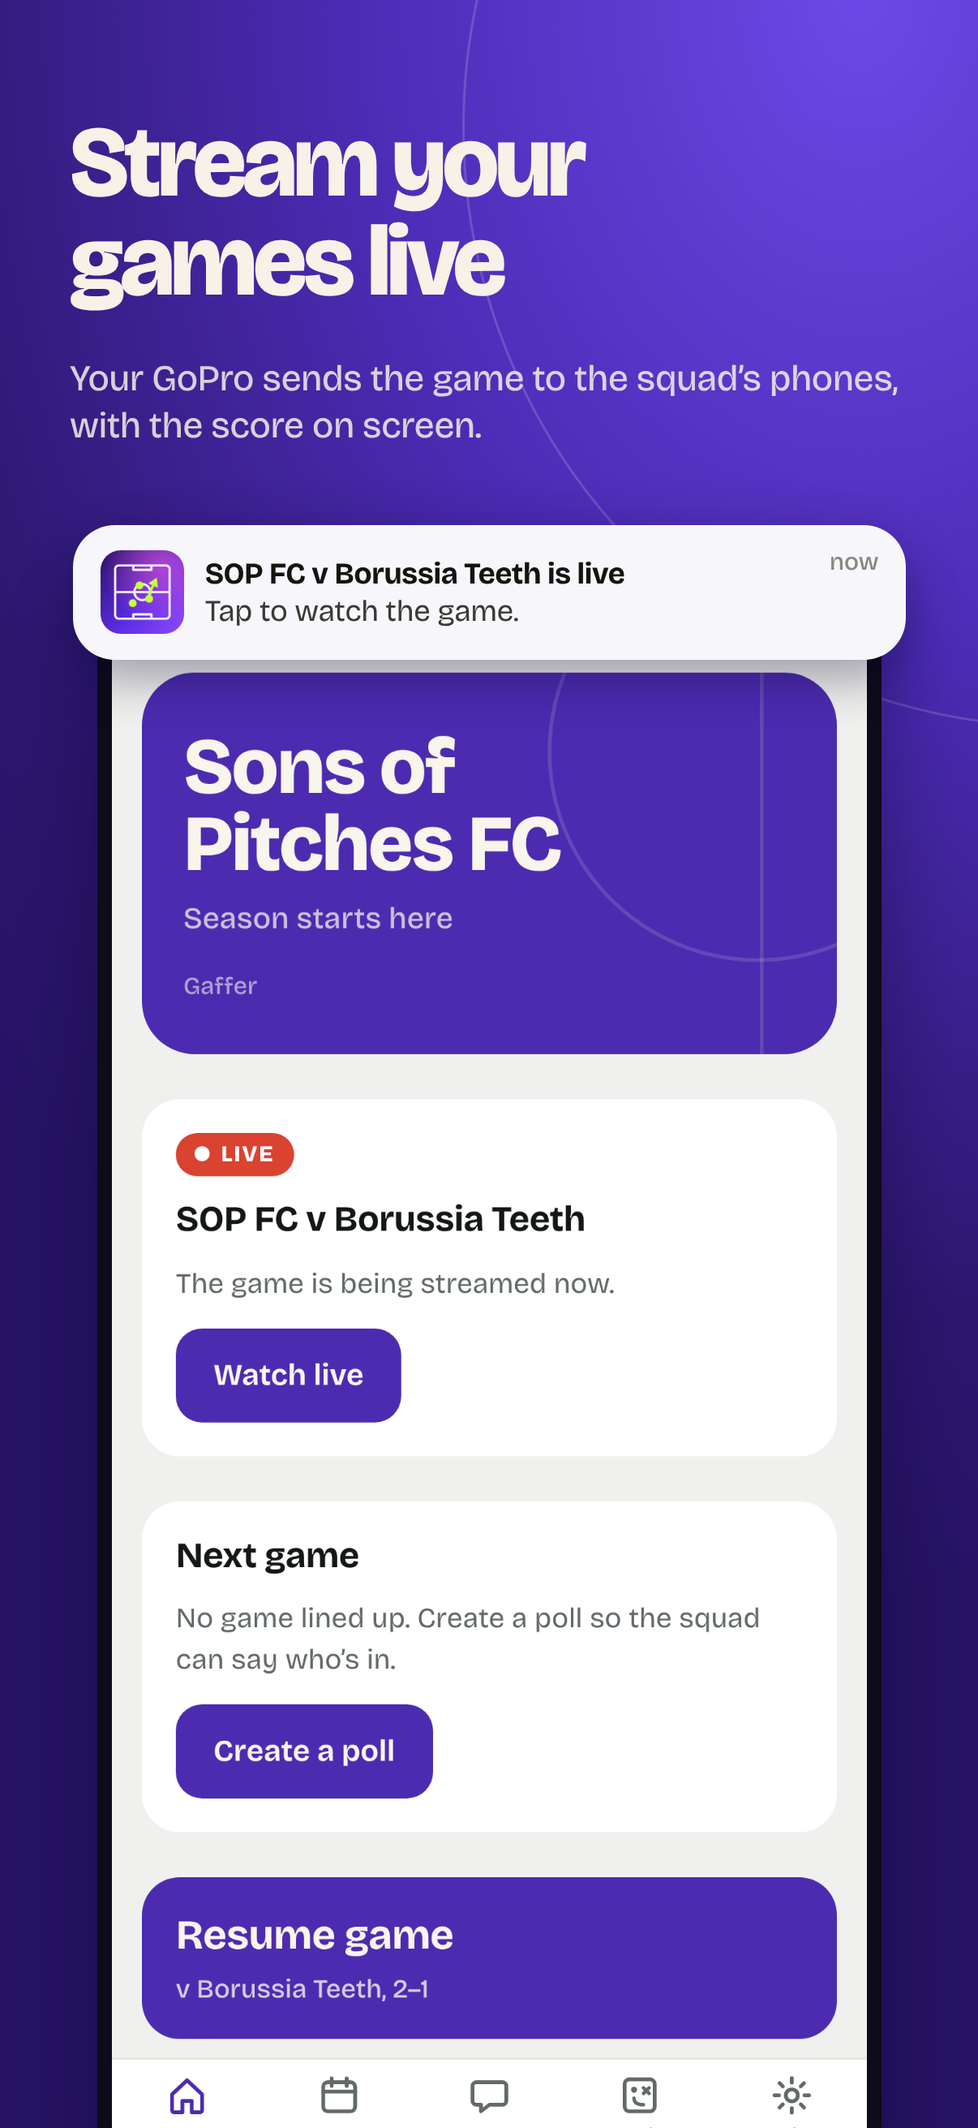
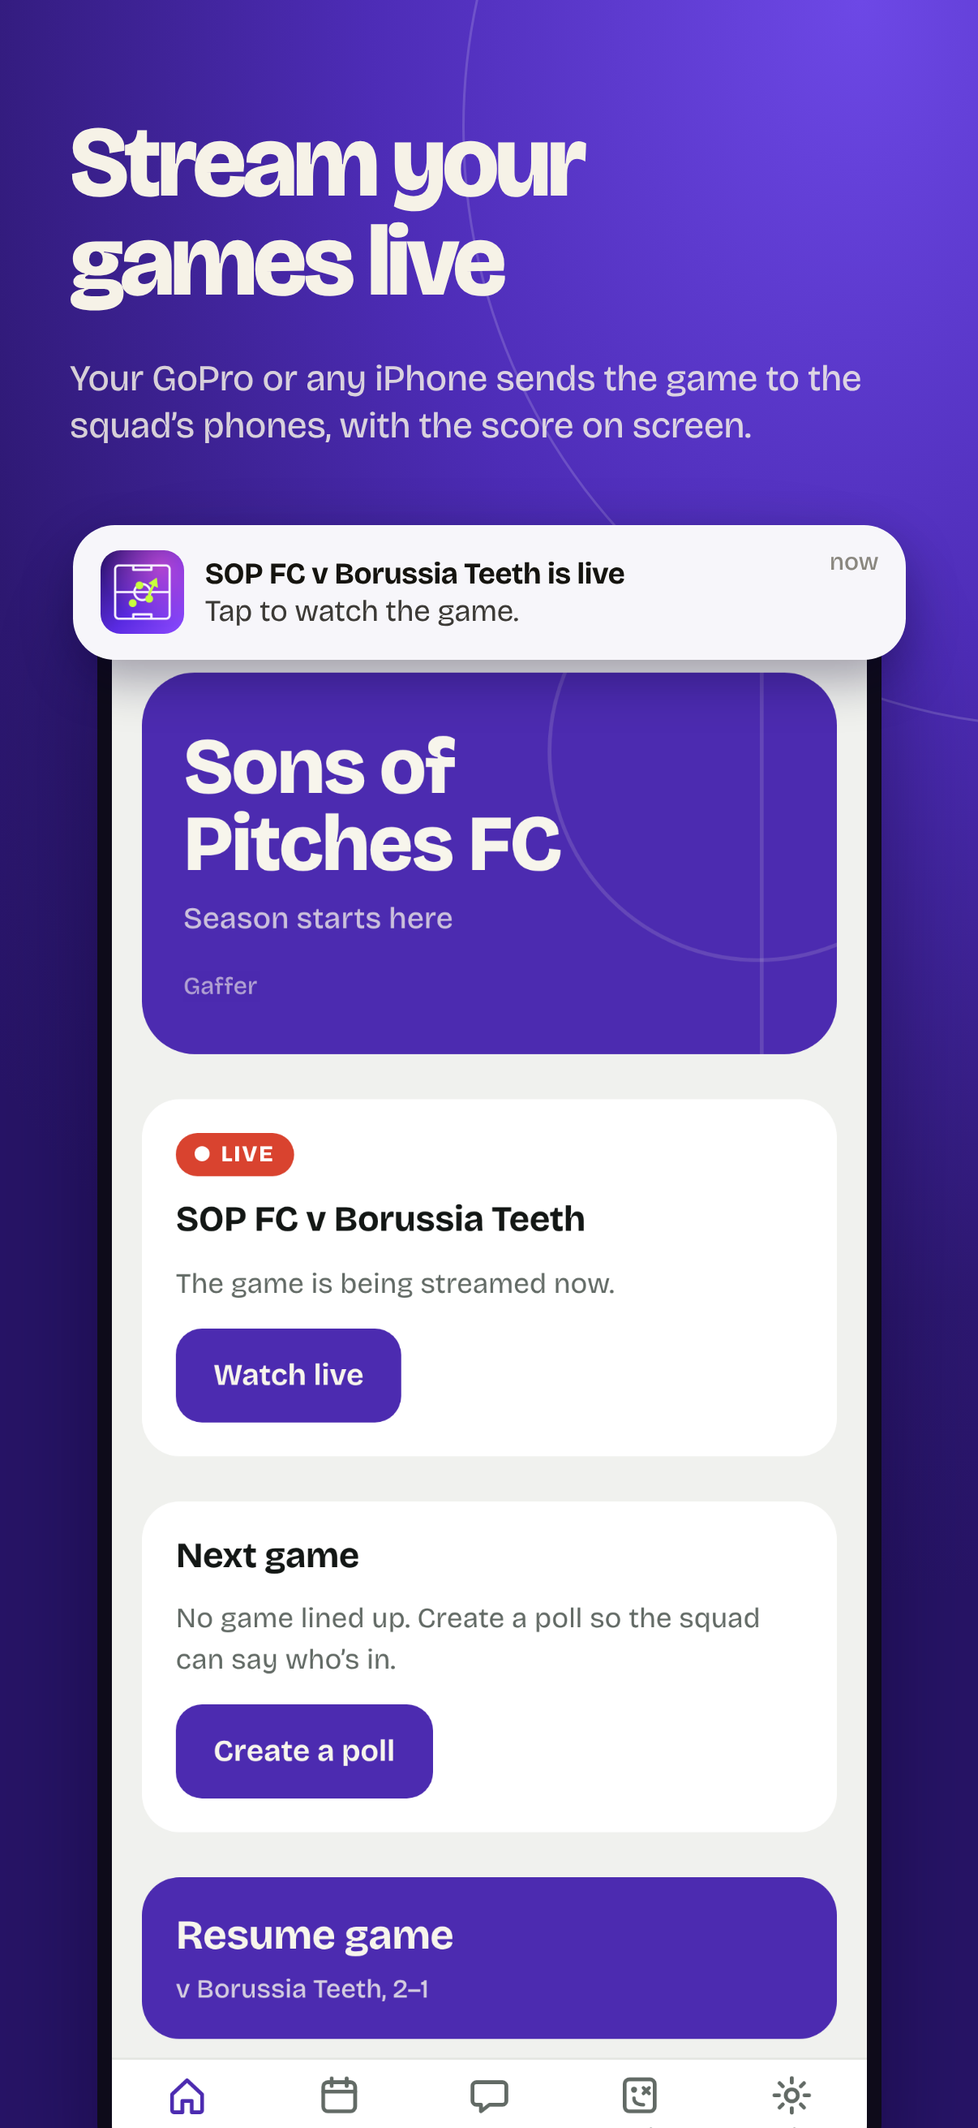
Wherever GoPro is mentioned, say an iPhone works too
Ethan's rule. The intro, the plans, the footage notes and the streaming sheet now all
say an iPhone works as well. Streaming from an iPhone is through a free streaming app such
as Larix Broadcaster with the same camera link, and the sheet gives the steps for both.
The App Store pictures say it too.

The computer's season-reel script only looked for .MP4 files, so games filmed on an
iPhone (.MOV) were skipped. It now takes both.

Tests: wording.test.mjs checks every line that mentions GoPro also mentions the iPhone;
scripts.test.mjs runs the season script's video finder in bash against GoPro and iPhone
folders (it failed before this fix).

Claude-Session: https://claude.ai/code/session_01817nujYfczktbeAfuEv3xo

Changed region(s): [[0.0614, 0.1545, 0.9204, 0.2162]]

diff --git a/index.html b/index.html
@@ -626,7 +626,7 @@ body.tabbed { padding-bottom: calc(78px + env(safe-area-inset-bottom, 0px)); }
         <p>Film the whole game and the app works out which bits to keep. No scrubbing through footage afterwards.</p>
       </div>
       <ol class="howto">
-        <li><div><b>Film it</b><span>Mount a GoPro or prop up a phone and leave it rolling. One continuous video of the whole game works best; one per half is fine too.</span></div></li>
+        <li><div><b>Film it</b><span>Mount a GoPro or prop up any iPhone and leave it rolling. One continuous video of the whole game works best; one per half is fine too.</span></div></li>
         <li><div><b>Tap as it happens</b><span>Every goal, assist and keeper save is timestamped the moment you log it. Mark anything else worth keeping with one tap, or from your Apple Watch.</span></div></li>
         <li><div><b>Line it up once</b><span>After the game, tell the app when kick-off appears in the video. That one number places every clip.</span></div></li>
         <li><div><b>Cut it on your phone</b><span>Pick the video in the iPhone app. It cuts each moment, adds the scorer and the score, and joins the clips into one reel to share.</span></div></li>
@@ -712,12 +712,12 @@ body.tabbed { padding-bottom: calc(78px + env(safe-area-inset-bottom, 0px)); }
   <h2 id="planTitle">Free to use. Gaffer tier on the way.</h2>
   <div class="tier"><h3>Free</h3><ul>
     <li>Fair subs, live scores, polls, stats, insights, the tactics board and the Apple Watch app</li>
-    <li><b>One highlight reel to try.</b> Log the goals as they go in, point it at your GoPro or phone footage, and it cuts every goal into a reel with the score, your badge and an outro, ready to share</li>
+    <li><b>One highlight reel to try.</b> Log the goals as they go in, point it at your GoPro or iPhone footage, and it cuts every goal into a reel with the score, your badge and an outro, ready to share</li>
     <li>Ads (not switched on yet)</li></ul></div>
   <div class="tier pro"><h3>Gaffer <b>£4.99</b> a month<small>COMING SOON</small></h3><ul>
     <li>Everything in Free, with no ads</li>
     <li>Highlight reels for every game</li>
-    <li><b>Stream your games live.</b> Your GoPro sends the game to the squad’s phones, with the score on screen</li>
+    <li><b>Stream your games live.</b> Your GoPro or any iPhone sends the game to the squad’s phones, with the score on screen</li>
     <li>AI voiceovers on your reels, AI match reports, and new features as they land</li>
     <li><b>Team Elo rating and leaderboard.</b> Play teams in your area and find out where you rank</li>
     <li>Supports the developer</li></ul></div>
@@ -1004,7 +1004,7 @@ body.tabbed { padding-bottom: calc(78px + env(safe-area-inset-bottom, 0px)); }
   <p class="note" id="reelCount"></p>
   <section>
     <h2>Line it up with the video</h2>
-    <p class="note">Play the GoPro or phone footage, find the moment of kick-off, and enter the time shown on the video. The script needs one continuous recording of the whole game. If the camera split it into several files, count from the start of the first one.</p>
+    <p class="note">Play the GoPro or iPhone footage, find the moment of kick-off, and enter the time shown on the video. The script needs one continuous recording of the whole game. If the camera split it into several files, count from the start of the first one.</p>
     <div class="three">
       <label class="field" for="syncIn">Kick-off at<input id="syncIn" class="clock" type="text" inputmode="numeric" placeholder="mm:ss" maxlength="5" autocomplete="off"></label>
       <label class="field" for="preIn">Seconds before<input id="preIn" type="number" inputmode="numeric" min="0" max="120"></label>
@@ -1024,7 +1024,7 @@ body.tabbed { padding-bottom: calc(78px + env(safe-area-inset-bottom, 0px)); }
   <section>
     <h2>Make the reel</h2>
     <ol class="steps">
-      <li>Copy the GoPro or phone footage into a folder named <code id="reelFolder"></code>. Using that exact name lets the season reels find this game later.</li>
+      <li>Copy the GoPro or iPhone footage into a folder named <code id="reelFolder"></code>. Using that exact name lets the season reels find this game later.</li>
       <li>Copy the script below and save it in that folder as <code>highlights.sh</code>.</li>
       <li>In a terminal in that folder, run <code>bash highlights.sh GX01*.MP4 GX02*.MP4</code> with your files in order. It needs ffmpeg installed.</li>
     </ol>
@@ -4165,13 +4165,13 @@ body.tabbed { padding-bottom: calc(78px + env(safe-area-inset-bottom, 0px)); }
     }
   });
   // ================= end of playing other teams
-  // ================= live streaming: a gaffer's GoPro streams the game through Cloudflare (the live-stream edge function
+  // ================= live streaming: a gaffer's GoPro or iPhone streams the game through Cloudflare (the live-stream edge function
   // makes the camera link and switches it on and off); everyone following the team watches it here, with the score held
-  // back to match the picture. The stream itself never touches this app: GoPro Quik sends it, Cloudflare plays it.
+  // back to match the picture. The stream itself never touches this app: GoPro Quik (or a streaming app on an iPhone) sends it, Cloudflare plays it.
   function hasGaffer() { return true; } // the Gaffer tier. Early access: everyone has it. When the subscription arrives, this is the check to change.
   function canStream() { return role === 'owner' && !!sb && !!me && !!(A.exp && A.exp.track) && hasGaffer(); }
   // s: the stream that's on (from team_stream: hls, gid, started, on_air), or null. cam: the camera is getting through right
-  // now (the gaffer's phone checks). link: the camera link for GoPro Quik (gaffers only, never saved on the phone).
+  // now (the gaffer's phone checks). link: the camera link for GoPro Quik or an iPhone streaming app (gaffers only, never saved on the phone).
   var LV = { code: null, s: null, cam: false, link: null, msg: '', busy: false, statT: null, arm: null };
   var LAG = 15000; // how far the picture runs behind real life, when the player can't say
   function liveOn() { return !!LV.s && LV.code === A.active; }
@@ -4221,9 +4221,9 @@ body.tabbed { padding-bottom: calc(78px + env(safe-area-inset-bottom, 0px)); }
     var box = $('liveBody'); if (!box || $('livePop').hidden) return;
     var on = liveOn(), html;
     html = (on ? '<span class="onair">' + (LV.cam ? 'LIVE' : 'ON') + '</span>' : '') + '<h2 id="liveTitle">' + (!on ? 'Stream this game' : LV.cam ? 'You’re live' : 'Waiting for the camera') + '</h2>';
-    if (!on) html += '<p>Your GoPro sends the game to everyone following ' + esc(teamShort()) + '. They watch it in Gaffer, with the score on screen.</p>';
-    html += '<ol class="steps"><li>In the GoPro Quik app, connect to your GoPro and choose <b>Live stream</b>.</li><li>Pick <b>RTMP</b> and paste the camera link below. Quik remembers it for next time.</li>' +
-      '<li>' + (on ? 'Start the stream in Quik.' : 'Tap <b>Go live</b> here, then start the stream in Quik. The link only works while you’re live.') + '</li></ol>';
+    if (!on) html += '<p>Your GoPro or any iPhone sends the game to everyone following ' + esc(teamShort()) + '. They watch it in Gaffer, with the score on screen.</p>';
+    html += '<ol class="steps"><li><b>GoPro:</b> in the GoPro Quik app, connect to your GoPro, choose <b>Live stream</b>, pick <b>RTMP</b> and paste the camera link below.</li>' + '<li><b>iPhone:</b> in a free streaming app such as Larix Broadcaster, add a connection and paste the camera link below.</li>' +
+      '<li>' + (on ? 'Start streaming. Both apps remember the link for next time.' : 'Tap <b>Go live</b> here, then start streaming. The link only works while you’re live, and both apps remember it for next time.') + '</li></ol>';
     html += LV.link ? '<label class="field" for="liveLink">Camera link<textarea id="liveLink" class="livelink" rows="2" readonly spellcheck="false" autocapitalize="off">' + esc(LV.link.url) + '</textarea></label><div class="actions"><button class="plain" type="button" id="liveCopy">Copy camera link</button></div>'
       : '<p class="note">' + (LV.busy ? 'Getting your camera link…' : '') + '</p>';
     if (on) html += '<p class="note">' + (LV.cam ? 'The camera is getting through. Everyone following the team can watch, and they’ve been sent a notification.' : 'Nothing from the camera yet. This changes as soon as it gets through.') + '</p>';
@@ -4231,7 +4231,7 @@ body.tabbed { padding-bottom: calc(78px + env(safe-area-inset-bottom, 0px)); }
     html += '<div class="actions">' + (on ? '<button class="plain" type="button" id="liveEnd"' + (LV.busy ? ' disabled' : '') + '>' + armedLabel('liveEnd', 'End stream', 'Tap again to end it') + '</button>'
       : '<button class="plain primary" type="button" id="liveGo"' + (S.match && !LV.busy ? '' : ' disabled') + '>Go live</button>') + '<button class="plain" type="button" id="liveClose">Close</button></div>';
     if (!on && LV.link) html += '<div class="actions"><button class="link" type="button" id="liveNew"' + (LV.busy ? ' disabled' : '') + '>' + armedLabel('liveNew', 'Camera link got out? Make a new one', 'Tap again: the old link stops working') + '</button></div>';
-    html += '<p class="note">Part of the Gaffer tier, free during early access. The GoPro uses the data of the phone it’s connected to: roughly 1 GB an hour. Each stream is recorded and kept for 30 days.</p>';
+    html += '<p class="note">Part of the Gaffer tier, free during early access. Streaming uses roughly 1 GB of mobile data an hour, from the iPhone doing it or the one your GoPro is connected to. Each stream is recorded and kept for 30 days.</p>';
     box.innerHTML = html;
   }
   $('livePop').addEventListener('click', function (e) {
@@ -4249,7 +4249,7 @@ body.tabbed { padding-bottom: calc(78px + env(safe-area-inset-bottom, 0px)); }
   $('watchBtn').addEventListener('click', function () { go('live'); });
   function liveCopy() {
     var el = $('liveLink'); if (!el || !LV.link) return;
-    var ok = function () { LV.msg = 'Copied. Paste it into GoPro Quik.'; renderLivePop(); };
+    var ok = function () { LV.msg = 'Copied. Paste it into GoPro Quik or your iPhone’s streaming app.'; renderLivePop(); };
     var by = function () { // the older way, for when the clipboard can't be written to directly
       try { el.focus(); el.select(); el.setSelectionRange(0, 9999); if (document.execCommand('copy')) { ok(); return; } } catch (e) {}
       LV.msg = 'Couldn’t copy it. Press and hold the link, then Select All and Copy.'; renderLivePop();
@@ -4265,7 +4265,7 @@ body.tabbed { padding-bottom: calc(78px + env(safe-area-inset-bottom, 0px)); }
     if (!r || r.error) { LV.msg = r ? r.error : ''; renderLivePop(); return; }
     if (r.url) LV.link = { url: r.url };
     LV.code = A.active; LV.s = { hls: r.hls, gid: m.gid || null, started: Date.now(), on_air: null }; LV.cam = false;
-    LV.msg = 'You’re live. Now start the stream in GoPro Quik.';
+    LV.msg = 'You’re live. Now start streaming from your GoPro or iPhone.';
     ping('live'); liveChanged(); liveCheck();
   }
   async function liveEnd() {
@@ -4280,7 +4280,7 @@ body.tabbed { padding-bottom: calc(78px + env(safe-area-inset-bottom, 0px)); }
     LV.busy = true; renderLivePop();
     var r = await liveCall('renew');
     LV.busy = false;
-    if (r && r.url) { LV.link = { url: r.url }; LV.msg = 'New camera link made. Paste it into GoPro Quik: the old one no longer works.'; }
+    if (r && r.url) { LV.link = { url: r.url }; LV.msg = 'New camera link made. Paste it into GoPro Quik or your iPhone’s streaming app: the old one no longer works.'; }
     else if (r) LV.msg = r.error;
     renderLivePop();
   }
@@ -4785,15 +4785,15 @@ body.tabbed { padding-bottom: calc(78px + env(safe-area-inset-bottom, 0px)); }
     var L = [], pad = function (n) { return ('0' + n).slice(-2); }, clean = function (s) { return String(s).replace(/[\r\n]+/g, ' '); };
     L.push('#!/usr/bin/env bash');
     L.push('# ' + clean(teamName()) + ' v ' + clean(r.opp) + ' (' + r.us + '-' + r.them + ') highlights, made by Gaffer.');
-    L.push('# Run it with the GoPro files in recording order:  bash highlights.sh GX010001.MP4 GX020001.MP4');
+    L.push('# Run it with the GoPro or iPhone video files in recording order:  bash highlights.sh GX010001.MP4 GX020001.MP4');
     L.push('set -euo pipefail');
-    L.push('[ "$#" -ge 1 ] || { echo "Give the GoPro files in order, e.g. bash highlights.sh GX01*.MP4 GX02*.MP4"; exit 1; }');
+    L.push('[ "$#" -ge 1 ] || { echo "Give the GoPro or iPhone video files in order, e.g. bash highlights.sh GX01*.MP4 GX02*.MP4 (or IMG_1234.MOV)"; exit 1; }');
     L.push('CAPTIONS=' + (captions ? 1 : 0) + '   # set to 0 if ffmpeg complains about drawtext');
     L.push('W=sop_work; mkdir -p "$W"');
     L.push('if [ "$#" -gt 1 ]; then');
     L.push('  : > "$W/in.txt"');
     L.push('  for f in "$@"; do printf "file \'%s\'\\n" "$(cd "$(dirname "$f")" && pwd)/$(basename "$f")" >> "$W/in.txt"; done');
-    L.push('  echo "Joining the GoPro chapters..."');
+    L.push('  echo "Joining the video files (GoPro chapters or iPhone clips)..."');
     L.push('  ffmpeg -y -loglevel error -stats -f concat -safe 0 -i "$W/in.txt" -map 0:v:0 -map "0:a:0?" -c copy "$W/full.mp4"');
     L.push('  SRC="$W/full.mp4"');
     L.push('else SRC="$1"; fi');
@@ -4918,15 +4918,15 @@ body.tabbed { padding-bottom: calc(78px + env(safe-area-inset-bottom, 0px)); }
     L.push('set -euo pipefail');
     L.push('CAPTIONS=1   # set to 0 if ffmpeg complains about drawtext');
     L.push('W=sop_work; mkdir -p "$W"; rm -f "$W"/*_list.txt');
-    L.push('src() { # game folder -> one video file for that game (GoPro chapters joined once, then reused)');
+    L.push('src() { # game folder -> one video file for that game (GoPro chapters or iPhone clips joined once, then reused)');
     L.push('  local d="$1" files=()');
     L.push('  [ -d "$d" ] || return 1');
-    L.push('  for f in "$d"/*.[mM][pP]4; do [ -f "$f" ] && files+=("$f"); done');
+    L.push('  for f in "$d"/*.[mM][pP]4 "$d"/*.[mM][oO][vV]; do [ -f "$f" ] && files+=("$f"); done');
     L.push('  [ "${#files[@]}" -ge 1 ] || return 1');
     L.push('  if [ "${#files[@]}" -eq 1 ]; then printf "%s" "${files[0]}"; return 0; fi');
     L.push('  if [ ! -f "$W/$d.mp4" ]; then');
     L.push('    : > "$W/$d.txt"; for f in "${files[@]}"; do printf "file \'%s\'\\n" "$(pwd)/$f" >> "$W/$d.txt"; done');
-    L.push('    echo "Joining the GoPro chapters for $d..." >&2');
+    L.push('    echo "Joining the video files for $d (GoPro chapters or iPhone clips)..." >&2');
     L.push('    ffmpeg -y -loglevel error -f concat -safe 0 -i "$W/$d.txt" -map 0:v:0 -map "0:a:0?" -c copy "$W/$d.mp4" >&2');
     L.push('  fi');
     L.push('  printf "%s" "$W/$d.mp4"');

diff --git a/sw.js b/sw.js
@@ -1,6 +1,6 @@
 // Offline support: keep the app shell on the phone so it opens with no signal at the pitch.
 // Team data is stored by the app itself and syncs with Supabase when there's a connection.
-const CACHE = 'apt-v44';
+const CACHE = 'apt-v45';
 const SHELL = ['./', 'index.html', 'config.js', 'manifest.webmanifest', 'icons/icon-192.png', 'icons/icon-512.png', 'icons/apple-touch-icon.png',
   'vendor/supabase.js', 'vendor/fonts.css', 'vendor/fonts/BricolageGrotesque.woff2', 'privacy.html'];
 

diff --git a/CLAUDE.md b/CLAUDE.md
@@ -61,7 +61,11 @@ goes in it, this file included.
   - No jargon in user-facing text.
   - Say exactly what went wrong and what to do. For example, an early voice error said "the key isn't allowed to use
     it", which hid the real cause; he wanted the specific reason.
-- **Footage wording:** say "GoPro or phone footage". Recommend one continuous video, or at least one per half.
+- **Footage wording:** say "GoPro or iPhone footage". Recommend one continuous video, or at least one per half.
+- **Every time GoPro is mentioned, say an iPhone works too** (Ethan's rule), in the app, the store pictures, the pages and
+  messages to him. `tests/wording.test.mjs` checks the app, the store text and the pages for it. Streaming from an iPhone
+  is through a free RTMP app such as Larix Broadcaster with the same camera link; Gaffer doesn't stream from the
+  iPhone's own camera yet.
 - Keep replies to him short: what changed, what to check on his phone, and that the TestFlight build was kicked off.
 - When he reports a bug from a screenshot, reproduce it in a test first, then fix it.
 
@@ -213,7 +217,8 @@ The plugin classes in `plugins/reel-cutter/ios/Sources/ReelCutterPlugin/`:
 - On a computer, the same screen writes an ffmpeg script instead (`reelScript`). That path is single-video.
 
 ### Live streaming (Gaffer tier; behind the experimental switch for gaffers) (`0017_live_streams.sql`, `live-stream`)
-- The GoPro streams over RTMPS through GoPro Quik straight to **Cloudflare Stream**. The app never handles the video
+- The GoPro (through GoPro Quik) or an iPhone (through a streaming app such as Larix Broadcaster) streams over RTMPS
+  straight to **Cloudflare Stream**. The app never handles the video
   going up; it only plays it.
 - Each team has one Cloudflare live input (its "camera link"), made the first time a gaffer asks for it and kept, so it's
   pasted into Quik once. It is **switched off except while the team is live**, so a leaked link can't put anything in front
@@ -349,7 +354,8 @@ node tests/run.mjs video --update     # accept a walk-through's new output, then
   - the whistle plays for nudges, polls, goals and kick-off;
   - a reel cut from two different cameras (for example a GoPro and an iPhone) joins cleanly.
 - **Live streaming:** Ethan to make a Cloudflare account with Stream, an API token with Stream: Edit, and set the two
-  secrets. Then try it at a game: Stream this game → copy the link into GoPro Quik (Live stream → RTMP) → Go live.
+  secrets. Then try it at a game: Stream this game → copy the link into GoPro Quik (Live stream → RTMP) or an
+  iPhone streaming app → Go live.
 - **Action button** (Ethan has an Ultra): "Mark a highlight" is built. To check on the watch: Watch app on the iPhone →
   Action Button → Shortcut → Gaffer's "Mark a highlight"; pressing it mid-game should say "Highlight marked at m:ss…"
   and the highlight should appear on the phone. Not yet confirmed that App Shortcuts from the watch app show up there.

diff --git a/README.md b/README.md
@@ -17,7 +17,7 @@ An iOS app (and the same app on the web) backed by Supabase, usable offline at t
 - **Tactics board.** A sandbox on its own tab: shapes for 5 and 7 a side, named players, an opposition, drawn runs and passes, set pieces that play back, chemistry lines from the stats, saved boards and a picture to share. It is one self-contained block in `index.html` (search for "tactics board") and is kept on the phone only.
 - **Player tracking (experimental).** Switched on per person in Settings. In the iPhone app it follows named players through a recording made from a fixed camera behind a goal, finding people with YOLOX-S (Apache 2.0, bundled as `yolox_s.onnx` and run with ONNX Runtime) and reading shirt numbers with Apple's Vision, and gives each a heat map and distance. See `MatchVisionPlugin.swift`. It does not track the ball or the score.
 - **Insights.** Match ratings out of 10 and a man of the match for every game, season form, player chemistry (how the team does while two players are on together, and who sets up whom), and when goals are scored and conceded. All of it is worked out from the logged stats; no AI model is involved.
-- **Highlights.** Every event is timestamped. In the iPhone app a gaffer picks the GoPro or phone footage from their photos (one continuous video is best; one per half also works) and the phone cuts a clip per moment, each with the app's watermark and a caption, plus one joined reel that ends on an outro card. The clips are uploaded for the whole team to watch by game or by player (oldest first); the full recording and the joined reel stay on the phone. On a computer, the same screen writes an ffmpeg script instead. Watch-shortcut times can be imported.
+- **Highlights.** Every event is timestamped. In the iPhone app a gaffer picks the GoPro or iPhone footage from their photos (one continuous video is best; one per half also works) and the phone cuts a clip per moment, each with the app's watermark and a caption, plus one joined reel that ends on an outro card. The clips are uploaded for the whole team to watch by game or by player (oldest first); the full recording and the joined reel stay on the phone. On a computer, the same screen writes an ffmpeg script instead. Watch-shortcut times can be imported.
 
 ## Files
 
